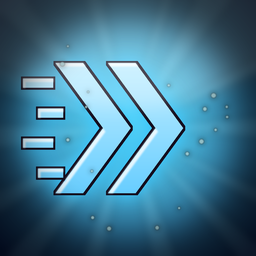
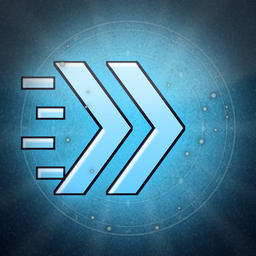
Botones del móvil como medallones pintados: iconos nuevos de Correr, Saltar, Agacharse, Defensa, Esquivar, Teléfono, Inventario, Hablar e Interactuar, y un medallón base para el resto (con su icono encima); fondos con grano metálico y anillo de runas, aro dorado con gemas; encendido y en espera se n

diff --git a/roblox/scripts/hud/gen_skills.py b/roblox/scripts/hud/gen_skills.py
@@ -137,9 +137,53 @@ def finish(base, name):
     print("  ", name)
 
 
+def grain(seed, alpha=26):
+    random.seed(seed)
+    small = Image.new("L", (S // 4, S // 4))
+    small.putdata([random.randint(0, 255) for _ in range((S // 4) ** 2)])
+    n = small.resize((S, S), Image.BICUBIC).filter(ImageFilter.GaussianBlur(1.5))
+    light = Image.new("RGBA", (S, S), (255, 255, 255, 0))
+    light.putalpha(n.point(lambda v: max(0, v - 150) * alpha // 60))
+    dark = Image.new("RGBA", (S, S), (0, 0, 0, 0))
+    dark.putalpha(n.point(lambda v: max(0, 105 - v) * alpha // 60))
+    return light, dark
+
+
+def rune_ring(color, alpha=70, seed=0):
+    """Anillo grabado con runas y rombos (detalle del fondo)."""
+    random.seed(seed + 99)
+    layer = Image.new("RGBA", (S, S), (0, 0, 0, 0))
+    d = ImageDraw.Draw(layer)
+    col = color + (alpha,)
+    for r, w in ((430, 6), (395, 3), (300, 3)):
+        d.ellipse((C - r, C - r, C + r, C + r), outline=col, width=w)
+    for i in range(36):
+        a = i / 36 * math.tau
+        if i % 3 == 0:
+            cx, cy = C + math.cos(a) * 413, C + math.sin(a) * 413
+            for _ in range(random.choice((2, 3))):
+                b = a + random.choice((0, math.pi / 2, math.pi / 4, -math.pi / 4))
+                ln = random.uniform(8, 13)
+                d.line((cx - math.cos(b) * ln, cy - math.sin(b) * ln, cx + math.cos(b) * ln, cy + math.sin(b) * ln), fill=col, width=4)
+        else:
+            d.line((C + math.cos(a) * 398, C + math.sin(a) * 398, C + math.cos(a) * 408, C + math.sin(a) * 408), fill=col, width=3)
+    for i in range(8):
+        a = i / 8 * math.tau
+        cx, cy = C + math.cos(a) * 300, C + math.sin(a) * 300
+        d.polygon([(cx, cy - 14), (cx + 9, cy), (cx, cy + 14), (cx - 9, cy)], fill=col)
+    out = Image.new("RGBA", (S, S), (0, 0, 0, 0))
+    out.alpha_composite(layer.filter(ImageFilter.GaussianBlur(6)))
+    out.alpha_composite(layer)
+    return out
+
+
 def background(inner, outer, ray_color, seed):
     base = radial(inner, outer).convert("RGBA")
     base.alpha_composite(rays(ray_color, seed=seed))
+    light, dark = grain(seed)
+    base.alpha_composite(dark)
+    base.alpha_composite(light)
+    base.alpha_composite(rune_ring(ray_color, seed=seed))
     return base
 
 
@@ -368,6 +412,32 @@ def frame(name, round_):
     ll = Image.new("RGBA", (S, S), (255, 255, 230, 0))
     ll.putalpha(light.point(lambda v: int(v * 0.9)))
     img.alpha_composite(ll)
+    # grabado: muescas a lo largo del marco, y gemas azules engastadas
+    eng = ImageDraw.Draw(img)
+    if round_:
+        for i in range(48):
+            a = i / 48 * math.tau
+            eng.line((C + math.cos(a) * (S / 2 - 52), C + math.sin(a) * (S / 2 - 52), C + math.cos(a) * (S / 2 - 30), C + math.sin(a) * (S / 2 - 30)), fill=(120, 70, 10, 150), width=4)
+        gems = [(C + math.cos(a) * (S / 2 - 39), C + math.sin(a) * (S / 2 - 39)) for a in (-math.pi / 2, 0, math.pi / 2, math.pi)]
+    else:
+        for i in range(1, 12):
+            t = 66 + i * (S - 132) / 12
+            for (x0, y0, x1, y1) in ((t, 24, t, 50), (t, S - 50, t, S - 24), (24, t, 50, t), (S - 50, t, S - 24, t)):
+                eng.line((x0, y0, x1, y1), fill=(120, 70, 10, 140), width=4)
+        gems = [(70, 70), (S - 70, 70), (70, S - 70), (S - 70, S - 70)]
+    for gx, gy in gems:
+        gl = Image.new("L", (S, S), 0)
+        ImageDraw.Draw(gl).ellipse((gx - 40, gy - 40, gx + 40, gy + 40), fill=255)
+        glow = Image.new("RGBA", (S, S), (90, 200, 255, 0))
+        glow.putalpha(gl.filter(ImageFilter.GaussianBlur(14)).point(lambda v: int(v * 0.8)))
+        img.alpha_composite(glow)
+        gm = Image.new("RGBA", (S, S), (0, 0, 0, 0))
+        dd = ImageDraw.Draw(gm)
+        dd.ellipse((gx - 30, gy - 30, gx + 30, gy + 30), fill=(70, 40, 6, 255))
+        dd.ellipse((gx - 23, gy - 23, gx + 23, gy + 23), fill=(40, 140, 230, 255))
+        dd.ellipse((gx - 16, gy - 18, gx + 8, gy + 2), fill=(170, 230, 255, 255))
+        dd.ellipse((gx - 10, gy - 14, gx - 2, gy - 6), fill=(255, 255, 255, 255))
+        img.alpha_composite(gm)
     # línea fina interior oscura (separa el marco del icono)
     inner_line = ImageChops.subtract(m_in.filter(ImageFilter.MaxFilter(13)), m_in)
     il = Image.new("RGBA", (S, S), (40, 22, 4, 0))
@@ -375,6 +445,159 @@ def frame(name, round_):
     img.alpha_composite(il)
     img.resize((FINAL, FINAL), Image.LANCZOS).save(os.path.join(OUT, name + ".png"))
     print("  ", name)
+
+
+def sym_correr():
+    base = background((120, 230, 160), (6, 40, 26), (190, 255, 210), 31)
+    # bota alada
+    boot = [(C - 150, C - 300), (C + 30, C - 300), (C + 40, C + 60), (C + 300, C + 150), (C + 320, C + 250), (C - 170, C + 250), (C - 175, C + 60)]
+    sole = [(C - 190, C + 250), (C + 330, C + 250), (C + 320, C + 300), (C - 190, C + 300)]
+    cuff = [(C - 175, C - 330), (C + 50, C - 330), (C + 50, C - 260), (C - 175, C - 260)]
+    emboss(base, poly_mask([boot, sole, cuff]), (230, 255, 240), (40, 170, 110), (90, 255, 160))
+    wing = Image.new("L", (S, S), 0)
+    d = ImageDraw.Draw(wing)
+    # plumas en abanico que salen del talón hacia atrás y arriba
+    hx, hy = C - 150, C - 120
+    for k in range(5):
+        a = math.radians(200 + k * 14)
+        ln = 330 - k * 35
+        w = 46 - k * 4
+        tip = (hx + math.cos(a) * ln, hy + math.sin(a) * ln)
+        nx, ny = -math.sin(a) * w, math.cos(a) * w
+        mid = (hx + math.cos(a) * ln * 0.55, hy + math.sin(a) * ln * 0.55)
+        d.polygon([(hx, hy), (mid[0] + nx, mid[1] + ny), tip, (mid[0] - nx * 0.4, mid[1] - ny * 0.4)], fill=255)
+    emboss(base, wing, (255, 255, 255), (180, 220, 240), (200, 255, 230), glow_r=24)
+    for i, y in enumerate((C + 40, C + 130, C + 210)):
+        line = poly_mask([[(C - 470 + i * 40, y - 12), (C - 230, y - 12), (C - 230, y + 12), (C - 470 + i * 40, y + 12)]])
+        emboss(base, line, (230, 255, 240), (120, 230, 170), (120, 255, 180), glow_r=14, glow_a=0.6)
+    sparkles(base, (200, 255, 220), seed=32)
+    finish(base, "btn_correr")
+
+
+def chevrons(up, n, y0, gap):
+    polys = []
+    for k in range(n):
+        y = y0 + k * gap
+        sg = -1 if up else 1
+        polys.append([(C - 260, y), (C, y + sg * 230), (C + 260, y), (C + 260, y - sg * 110), (C, y + sg * 120), (C - 260, y - sg * 110)])
+    return polys
+
+
+def sym_saltar():
+    base = background((110, 190, 255), (8, 22, 66), (190, 230, 255), 33)
+    ring = Image.new("L", (S, S), 0)
+    ImageDraw.Draw(ring).ellipse((C - 300, C + 260, C + 300, C + 380), outline=255, width=26)
+    emboss(base, ring, (220, 240, 255), (90, 160, 255), (100, 180, 255), glow_r=20)
+    emboss(base, poly_mask(chevrons(True, 2, C + 110, -230)), (255, 255, 255), (80, 170, 255), (100, 200, 255))
+    sparkles(base, (210, 235, 255), seed=34)
+    finish(base, "btn_saltar")
+
+
+def sym_agacharse():
+    base = background((150, 140, 200), (16, 12, 44), (210, 200, 255), 35)
+    emboss(base, poly_mask(chevrons(False, 2, C - 260, 210)), (255, 255, 255), (140, 120, 230), (170, 150, 255))
+    bar = poly_mask([[(C - 300, C + 300), (C + 300, C + 300), (C + 300, C + 340), (C - 300, C + 340)]])
+    emboss(base, bar, (230, 220, 255), (140, 120, 230), (170, 150, 255), glow_r=16)
+    sparkles(base, (220, 210, 255), seed=36)
+    finish(base, "btn_agacharse")
+
+
+def sym_defensa():
+    base = background((110, 170, 255), (8, 18, 60), (200, 225, 255), 37)
+    emboss(base, poly_mask([shield_pts(C, C, 300, 620)]), (235, 240, 255), (130, 150, 190), (130, 190, 255))
+    inner = poly_mask([shield_pts(C, C + 10, 220, 450)])
+    emboss(base, inner, (90, 150, 255), (16, 40, 120), (100, 160, 255), outline=(20, 30, 60), glow_r=10, glow_a=0.3)
+    cross = poly_mask([[(C - 30, C - 200), (C + 30, C - 200), (C + 30, C + 230), (C - 30, C + 230)], [(C - 150, C - 50), (C + 150, C - 50), (C + 150, C + 10), (C - 150, C + 10)]])
+    emboss(base, cross, (255, 245, 200), (220, 160, 40), (255, 210, 100), glow_r=18)
+    sparkles(base, (210, 230, 255), seed=38)
+    finish(base, "btn_defensa")
+
+
+def sym_esquivar():
+    base = background((120, 240, 230), (4, 40, 50), (190, 255, 250), 39)
+    arc = Image.new("L", (S, S), 0)
+    d = ImageDraw.Draw(arc)
+    d.arc((C - 330, C - 260, C + 330, C + 400), 190, 350, fill=255, width=90)
+    d.polygon([(C + 250, C - 160), (C + 430, C + 40), (C + 180, C + 70)], fill=255)
+    emboss(base, arc, (240, 255, 255), (40, 200, 200), (80, 255, 240))
+    ghost = Image.new("L", (S, S), 0)
+    ImageDraw.Draw(ghost).arc((C - 330, C - 120, C + 330, C + 540), 200, 300, fill=150, width=40)
+    emboss(base, ghost, (180, 255, 250), (60, 180, 190), (80, 220, 220), glow_r=20, glow_a=0.5)
+    sparkles(base, (200, 255, 250), seed=40)
+    finish(base, "btn_esquivar")
+
+
+def sym_telefono():
+    base = background((120, 160, 255), (10, 14, 50), (200, 210, 255), 41)
+    body = Image.new("L", (S, S), 0)
+    ImageDraw.Draw(body).rounded_rectangle((C - 200, C - 360, C + 200, C + 360), radius=70, fill=255)
+    emboss(base, body, (90, 100, 130), (20, 22, 34), (120, 160, 255), outline=(10, 10, 20))
+    screen = Image.new("L", (S, S), 0)
+    ImageDraw.Draw(screen).rounded_rectangle((C - 160, C - 290, C + 160, C + 270), radius=34, fill=255)
+    emboss(base, screen, (130, 200, 255), (40, 70, 200), (90, 150, 255), outline=(10, 10, 20), glow_r=14, glow_a=0.5)
+    apps = Image.new("L", (S, S), 0)
+    d = ImageDraw.Draw(apps)
+    for r_ in range(3):
+        for c_ in range(3):
+            x, y = C - 105 + c_ * 105, C - 200 + r_ * 115
+            d.rounded_rectangle((x - 36, y - 36, x + 36, y + 36), radius=14, fill=255)
+    emboss(base, apps, (255, 255, 255), (190, 220, 255), (200, 230, 255), outline=(20, 30, 90), glow_r=8, glow_a=0.4)
+    emboss(base, poly_mask([], ellipses=[(C - 26, C + 296, C + 26, C + 342)]), (200, 200, 220), (90, 90, 110), (0, 0, 0), glow_r=2, glow_a=0)
+    finish(base, "btn_telefono")
+
+
+def sym_inventario():
+    base = background((230, 170, 90), (50, 22, 6), (255, 220, 160), 43)
+    body = Image.new("L", (S, S), 0)
+    d = ImageDraw.Draw(body)
+    d.rounded_rectangle((C - 270, C - 190, C + 270, C + 360), radius=90, fill=255)
+    d.arc((C - 130, C - 380, C + 130, C - 120), 180, 360, fill=255, width=46)
+    emboss(base, body, (230, 160, 90), (120, 60, 20), (255, 180, 90))
+    flap = Image.new("L", (S, S), 0)
+    ImageDraw.Draw(flap).rounded_rectangle((C - 270, C - 190, C + 270, C + 40), radius=90, fill=255)
+    emboss(base, flap, (200, 130, 70), (100, 50, 16), (0, 0, 0), glow_r=4, glow_a=0)
+    pocket = Image.new("L", (S, S), 0)
+    ImageDraw.Draw(pocket).rounded_rectangle((C - 170, C + 120, C + 170, C + 320), radius=40, fill=255)
+    emboss(base, pocket, (210, 140, 80), (110, 56, 18), (0, 0, 0), glow_r=4, glow_a=0)
+    buckle = Image.new("L", (S, S), 0)
+    ImageDraw.Draw(buckle).rounded_rectangle((C - 50, C - 10, C + 50, C + 90), radius=14, fill=255)
+    emboss(base, buckle, (255, 245, 180), (220, 160, 40), (255, 220, 120), glow_r=16)
+    sparkles(base, (255, 230, 170), seed=44)
+    finish(base, "btn_inventario")
+
+
+def sym_hablar():
+    base = background((130, 210, 255), (8, 30, 64), (200, 240, 255), 45)
+    bub = Image.new("L", (S, S), 0)
+    d = ImageDraw.Draw(bub)
+    d.ellipse((C - 360, C - 280, C + 360, C + 220), fill=255)
+    d.polygon([(C - 220, C + 120), (C - 300, C + 360), (C - 40, C + 190)], fill=255)
+    for k in (-1, 0, 1):
+        d.ellipse((C + k * 180 - 50, C - 80, C + k * 180 + 50, C + 20), fill=0)
+    emboss(base, bub, (255, 255, 255), (150, 200, 240), (140, 210, 255))
+    sparkles(base, (210, 240, 255), seed=46)
+    finish(base, "btn_hablar")
+
+
+def sym_interactuar():
+    base = background((255, 210, 110), (50, 30, 6), (255, 235, 170), 47)
+    star = []
+    for i in range(8):
+        a = i / 8 * math.tau - math.pi / 2
+        r = 380 if i % 2 == 0 else 110
+        star.append((C + math.cos(a) * r, C + math.sin(a) * r))
+    emboss(base, poly_mask([star]), (255, 255, 230), (255, 180, 40), (255, 210, 90))
+    ring = Image.new("L", (S, S), 0)
+    ImageDraw.Draw(ring).ellipse((C - 200, C - 200, C + 200, C + 200), outline=255, width=22)
+    emboss(base, ring, (255, 250, 220), (230, 170, 50), (255, 220, 120), glow_r=18, glow_a=0.6)
+    sparkles(base, (255, 240, 190), seed=48, n=26)
+    finish(base, "btn_interactuar")
+
+
+def sym_base():
+    """Medallón vacío para los botones sin icono pintado: su icono de siempre va encima."""
+    base = background((60, 100, 190), (6, 10, 34), (150, 190, 255), 49)
+    finish(base, "btn_base")
 
 
 if __name__ == "__main__":
@@ -388,5 +611,7 @@ if __name__ == "__main__":
     sym_ataque()
     potion("pocion_hp", (255, 160, 160), (200, 20, 40), (150, 30, 40), (40, 4, 10), (255, 60, 80))
     potion("pocion_mp", (170, 220, 255), (30, 90, 230), (40, 80, 170), (6, 14, 50), (80, 160, 255))
+    for f in (sym_correr, sym_saltar, sym_agacharse, sym_defensa, sym_esquivar, sym_telefono, sym_inventario, sym_hablar, sym_interactuar, sym_base):
+        f()
     frame("marco_hab", False)
     frame("marco_hab_redondo", True)
